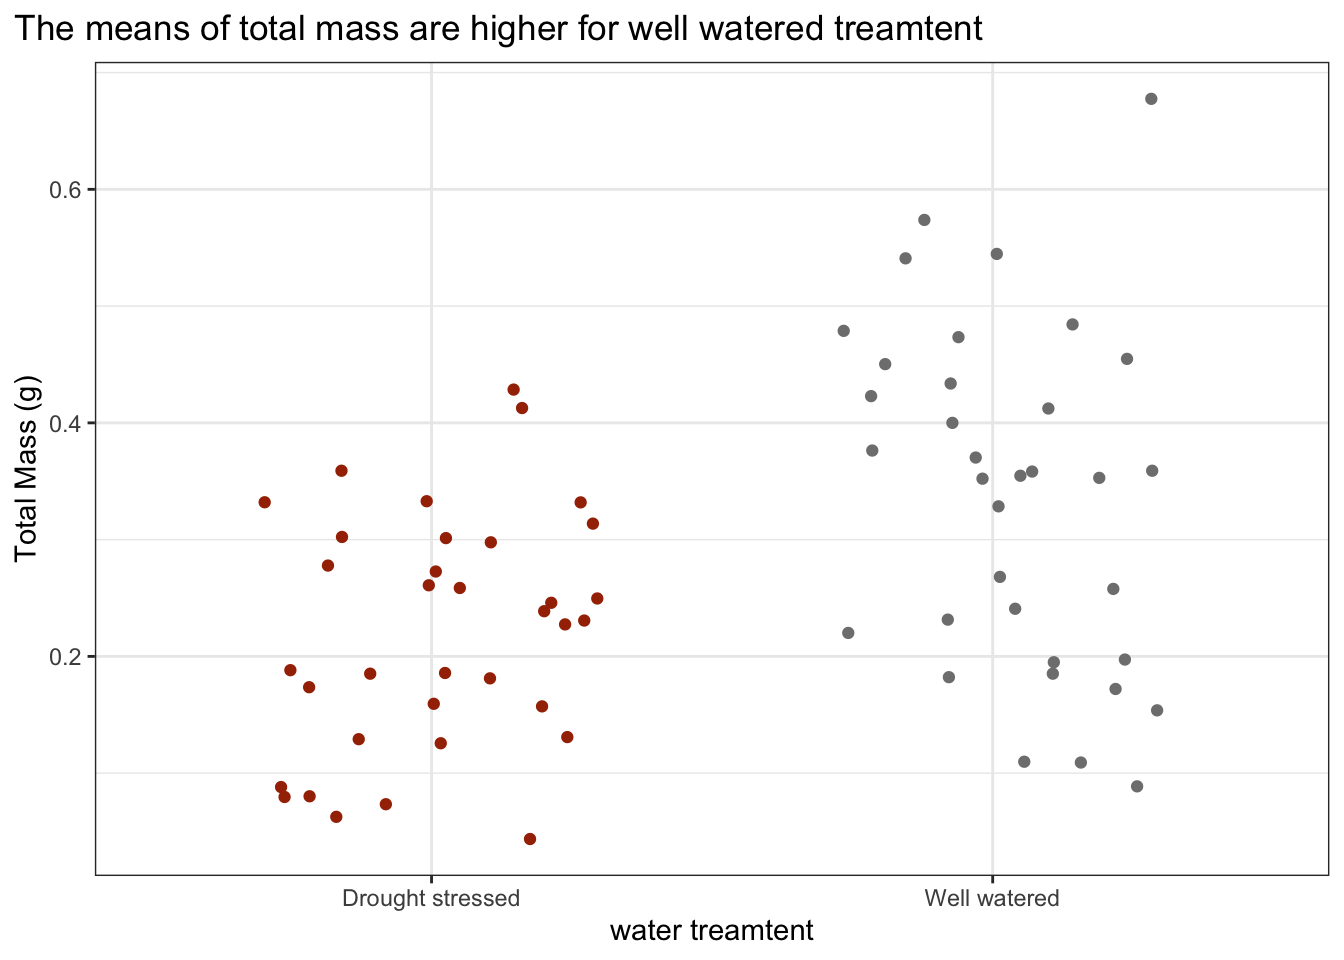
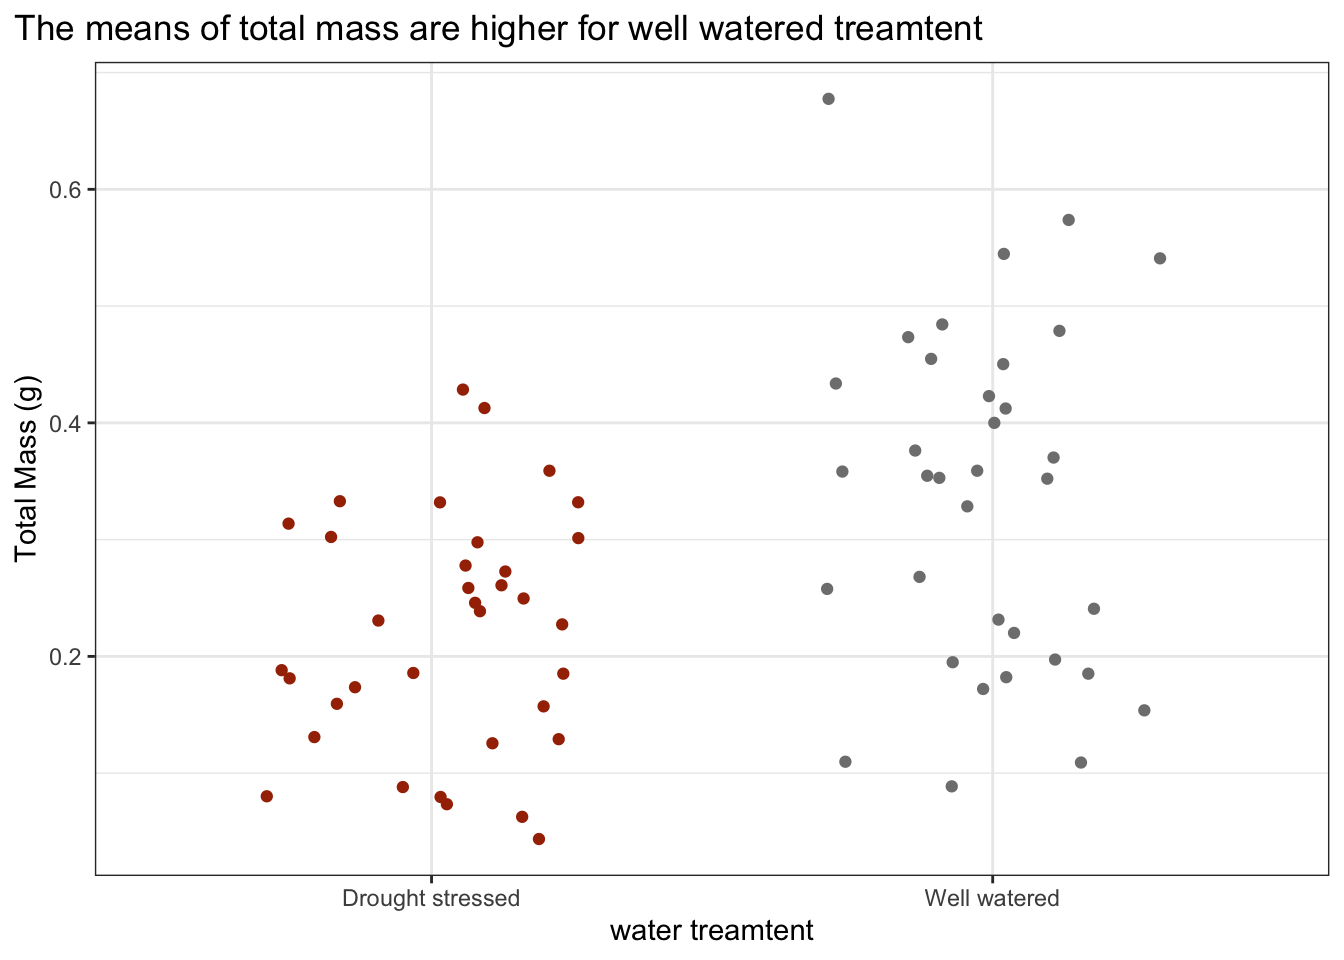
selected best model, looked at summary, and wrote abt outcome

diff --git a/code/workshop-code.html b/code/workshop-code.html
@@ -300,16 +300,16 @@ pre > code.sourceCode > span > a:first-child::before { text-decoration: underlin
 <pre><code># A tibble: 10 × 4
    species_name               water_treatment    sla total_g
    &lt;fct&gt;                      &lt;fct&gt;            &lt;dbl&gt;   &lt;dbl&gt;
- 1 Salvia leucophylla         Drought stressed  74.4  0.131 
- 2 Encelia californica        Drought stressed 192.   0.261 
- 3 Penstemon centranthifolius Well watered     160.   0.172 
- 4 Lotus scoparius            Drought stressed 116.   0.0802
- 5 Penstemon centranthifolius Drought stressed 143.   0.0881
- 6 Stipa pulchra              Well watered     234.   0.545 
- 7 Eschscholzia californica   Drought stressed 107.   0.302 
- 8 Encelia californica        Well watered     209.   0.450 
- 9 Penstemon centranthifolius Well watered     165.   0.197 
-10 Encelia californica        Well watered     222.   0.352 </code></pre>
+ 1 Eschscholzia californica   Drought stressed 130.    0.157
+ 2 Penstemon centranthifolius Well watered     165.    0.197
+ 3 Encelia californica        Well watered     216.    0.359
+ 4 Salvia leucophylla         Drought stressed  77.6   0.186
+ 5 Encelia californica        Drought stressed 196.    0.239
+ 6 Stipa pulchra              Drought stressed 131.    0.301
+ 7 Salvia leucophylla         Drought stressed  99.7   0.227
+ 8 Stipa pulchra              Well watered     161.    0.376
+ 9 Lotus scoparius            Well watered     123.    0.182
+10 Penstemon centranthifolius Drought stressed 161.    0.174</code></pre>
 </div>
 </div>
 </section>
@@ -491,54 +491,142 @@ pre > code.sourceCode > span > a:first-child::before { text-decoration: underlin
 <div class="cell">
 <div class="code-copy-outer-scaffold"><div class="sourceCode cell-code" id="cb11"><pre class="sourceCode r code-with-copy"><code class="sourceCode r"><span id="cb11-1"><a href="#cb11-1" aria-hidden="true" tabindex="-1"></a><span class="co"># model 0: null model</span></span>
 <span id="cb11-2"><a href="#cb11-2" aria-hidden="true" tabindex="-1"></a></span>
-<span id="cb11-3"><a href="#cb11-3" aria-hidden="true" tabindex="-1"></a></span>
-<span id="cb11-4"><a href="#cb11-4" aria-hidden="true" tabindex="-1"></a><span class="co"># model 1: all predictors</span></span>
+<span id="cb11-3"><a href="#cb11-3" aria-hidden="true" tabindex="-1"></a>model0 <span class="ot">&lt;-</span> <span class="fu">lm</span>(total_g <span class="sc">~</span> <span class="dv">1</span>, </span>
+<span id="cb11-4"><a href="#cb11-4" aria-hidden="true" tabindex="-1"></a>             <span class="at">data =</span> drought_exp_clean)</span>
 <span id="cb11-5"><a href="#cb11-5" aria-hidden="true" tabindex="-1"></a></span>
-<span id="cb11-6"><a href="#cb11-6" aria-hidden="true" tabindex="-1"></a></span>
-<span id="cb11-7"><a href="#cb11-7" aria-hidden="true" tabindex="-1"></a><span class="co"># model 2: SLA and water treatment</span></span>
-<span id="cb11-8"><a href="#cb11-8" aria-hidden="true" tabindex="-1"></a></span>
-<span id="cb11-9"><a href="#cb11-9" aria-hidden="true" tabindex="-1"></a></span>
-<span id="cb11-10"><a href="#cb11-10" aria-hidden="true" tabindex="-1"></a><span class="co"># model 3: SLA and species</span></span>
-<span id="cb11-11"><a href="#cb11-11" aria-hidden="true" tabindex="-1"></a></span>
+<span id="cb11-6"><a href="#cb11-6" aria-hidden="true" tabindex="-1"></a><span class="co"># model 1: all predictors</span></span>
+<span id="cb11-7"><a href="#cb11-7" aria-hidden="true" tabindex="-1"></a></span>
+<span id="cb11-8"><a href="#cb11-8" aria-hidden="true" tabindex="-1"></a>model1 <span class="ot">&lt;-</span> <span class="fu">lm</span>(total_g <span class="sc">~</span> sla <span class="sc">+</span> water_treatment <span class="sc">+</span> species_name, </span>
+<span id="cb11-9"><a href="#cb11-9" aria-hidden="true" tabindex="-1"></a>             <span class="at">data =</span> drought_exp_clean)</span>
+<span id="cb11-10"><a href="#cb11-10" aria-hidden="true" tabindex="-1"></a></span>
+<span id="cb11-11"><a href="#cb11-11" aria-hidden="true" tabindex="-1"></a><span class="co"># model 2: SLA and water treatment</span></span>
 <span id="cb11-12"><a href="#cb11-12" aria-hidden="true" tabindex="-1"></a></span>
-<span id="cb11-13"><a href="#cb11-13" aria-hidden="true" tabindex="-1"></a><span class="co"># model 4: water treatment and species</span></span>
-<span id="cb11-14"><a href="#cb11-14" aria-hidden="true" tabindex="-1"></a></span>
+<span id="cb11-13"><a href="#cb11-13" aria-hidden="true" tabindex="-1"></a>model2 <span class="ot">&lt;-</span> <span class="fu">lm</span>(total_g <span class="sc">~</span> sla <span class="sc">+</span> species_name, </span>
+<span id="cb11-14"><a href="#cb11-14" aria-hidden="true" tabindex="-1"></a>             <span class="at">data =</span> drought_exp_clean)</span>
 <span id="cb11-15"><a href="#cb11-15" aria-hidden="true" tabindex="-1"></a></span>
-<span id="cb11-16"><a href="#cb11-16" aria-hidden="true" tabindex="-1"></a><span class="co"># model 5: SLA</span></span>
+<span id="cb11-16"><a href="#cb11-16" aria-hidden="true" tabindex="-1"></a><span class="co"># model 3: SLA and species</span></span>
 <span id="cb11-17"><a href="#cb11-17" aria-hidden="true" tabindex="-1"></a></span>
-<span id="cb11-18"><a href="#cb11-18" aria-hidden="true" tabindex="-1"></a></span>
-<span id="cb11-19"><a href="#cb11-19" aria-hidden="true" tabindex="-1"></a><span class="co"># model 6: water treatment</span></span>
+<span id="cb11-18"><a href="#cb11-18" aria-hidden="true" tabindex="-1"></a>model3 <span class="ot">&lt;-</span> <span class="fu">lm</span>(total_g <span class="sc">~</span> sla <span class="sc">+</span> species_name, </span>
+<span id="cb11-19"><a href="#cb11-19" aria-hidden="true" tabindex="-1"></a>             <span class="at">data =</span> drought_exp_clean)</span>
 <span id="cb11-20"><a href="#cb11-20" aria-hidden="true" tabindex="-1"></a></span>
-<span id="cb11-21"><a href="#cb11-21" aria-hidden="true" tabindex="-1"></a></span>
-<span id="cb11-22"><a href="#cb11-22" aria-hidden="true" tabindex="-1"></a><span class="co"># model 7: species</span></span></code></pre></div><button title="Copy to Clipboard" class="code-copy-button"><i class="bi"></i></button></div>
+<span id="cb11-21"><a href="#cb11-21" aria-hidden="true" tabindex="-1"></a><span class="co"># model 4: water treatment and species</span></span>
+<span id="cb11-22"><a href="#cb11-22" aria-hidden="true" tabindex="-1"></a></span>
+<span id="cb11-23"><a href="#cb11-23" aria-hidden="true" tabindex="-1"></a>model4 <span class="ot">&lt;-</span> <span class="fu">lm</span>(total_g <span class="sc">~</span> water_treatment <span class="sc">+</span> species_name, </span>
+<span id="cb11-24"><a href="#cb11-24" aria-hidden="true" tabindex="-1"></a>             <span class="at">data =</span> drought_exp_clean)</span>
+<span id="cb11-25"><a href="#cb11-25" aria-hidden="true" tabindex="-1"></a></span>
+<span id="cb11-26"><a href="#cb11-26" aria-hidden="true" tabindex="-1"></a><span class="co"># model 5: SLA</span></span>
+<span id="cb11-27"><a href="#cb11-27" aria-hidden="true" tabindex="-1"></a></span>
+<span id="cb11-28"><a href="#cb11-28" aria-hidden="true" tabindex="-1"></a>model5 <span class="ot">&lt;-</span> <span class="fu">lm</span>(total_g <span class="sc">~</span> sla, </span>
+<span id="cb11-29"><a href="#cb11-29" aria-hidden="true" tabindex="-1"></a>             <span class="at">data =</span> drought_exp_clean)</span>
+<span id="cb11-30"><a href="#cb11-30" aria-hidden="true" tabindex="-1"></a></span>
+<span id="cb11-31"><a href="#cb11-31" aria-hidden="true" tabindex="-1"></a><span class="co"># model 6: water treatment</span></span>
+<span id="cb11-32"><a href="#cb11-32" aria-hidden="true" tabindex="-1"></a></span>
+<span id="cb11-33"><a href="#cb11-33" aria-hidden="true" tabindex="-1"></a>model6 <span class="ot">&lt;-</span> <span class="fu">lm</span>(total_g <span class="sc">~</span> water_treatment, <span class="co">#response ~ predictor + predictor</span></span>
+<span id="cb11-34"><a href="#cb11-34" aria-hidden="true" tabindex="-1"></a>             <span class="at">data =</span> drought_exp_clean)</span>
+<span id="cb11-35"><a href="#cb11-35" aria-hidden="true" tabindex="-1"></a></span>
+<span id="cb11-36"><a href="#cb11-36" aria-hidden="true" tabindex="-1"></a><span class="co"># model 7: species</span></span>
+<span id="cb11-37"><a href="#cb11-37" aria-hidden="true" tabindex="-1"></a><span class="co"># </span></span>
+<span id="cb11-38"><a href="#cb11-38" aria-hidden="true" tabindex="-1"></a>model7 <span class="ot">&lt;-</span> <span class="fu">lm</span>(total_g <span class="sc">~</span> species_name, </span>
+<span id="cb11-39"><a href="#cb11-39" aria-hidden="true" tabindex="-1"></a>             <span class="at">data =</span> drought_exp_clean)</span></code></pre></div><button title="Copy to Clipboard" class="code-copy-button"><i class="bi"></i></button></div>
 </div>
 </section>
 <section id="model-selection" class="level2">
 <h2 class="anchored" data-anchor-id="model-selection">Model selection</h2>
 <p>Insert code to use the <code>AICc()</code> function to calculate the AIC for each model.</p>
 <p>Arrange by decreasing AIC.</p>
+<div class="cell">
+<div class="code-copy-outer-scaffold"><div class="sourceCode cell-code" id="cb12"><pre class="sourceCode r code-with-copy"><code class="sourceCode r"><span id="cb12-1"><a href="#cb12-1" aria-hidden="true" tabindex="-1"></a><span class="fu">AICc</span>(</span>
+<span id="cb12-2"><a href="#cb12-2" aria-hidden="true" tabindex="-1"></a>  model0, </span>
+<span id="cb12-3"><a href="#cb12-3" aria-hidden="true" tabindex="-1"></a>  model1, </span>
+<span id="cb12-4"><a href="#cb12-4" aria-hidden="true" tabindex="-1"></a>  model2, </span>
+<span id="cb12-5"><a href="#cb12-5" aria-hidden="true" tabindex="-1"></a>  model3, </span>
+<span id="cb12-6"><a href="#cb12-6" aria-hidden="true" tabindex="-1"></a>  model4, </span>
+<span id="cb12-7"><a href="#cb12-7" aria-hidden="true" tabindex="-1"></a>  model5, </span>
+<span id="cb12-8"><a href="#cb12-8" aria-hidden="true" tabindex="-1"></a>  model6, </span>
+<span id="cb12-9"><a href="#cb12-9" aria-hidden="true" tabindex="-1"></a>  model7</span>
+<span id="cb12-10"><a href="#cb12-10" aria-hidden="true" tabindex="-1"></a>) <span class="sc">|&gt;</span> </span>
+<span id="cb12-11"><a href="#cb12-11" aria-hidden="true" tabindex="-1"></a>  <span class="fu">arrange</span>(AICc)</span></code></pre></div><button title="Copy to Clipboard" class="code-copy-button"><i class="bi"></i></button></div>
+<div class="cell-output cell-output-stdout">
+<pre><code>       df       AICc
+model4  9 -156.19595
+model1 10 -153.75361
+model2  9 -124.07569
+model3  9 -124.07569
+model7  8 -120.30191
+model5  3  -88.85180
+model6  3  -86.76661
+model0  2  -74.98036</code></pre>
+</div>
+</div>
+<p>Arrange by decreasing AIC. best model is model4: the one that includes only water treatment and species</p>
 </section>
 <section id="model-diagnostics" class="level2">
 <h2 class="anchored" data-anchor-id="model-diagnostics">Model diagnostics</h2>
 <p>Insert code to look at the diagnostic plots for the best model.</p>
+<div class="cell">
+<div class="code-copy-outer-scaffold"><div class="sourceCode cell-code" id="cb14"><pre class="sourceCode r code-with-copy"><code class="sourceCode r"><span id="cb14-1"><a href="#cb14-1" aria-hidden="true" tabindex="-1"></a><span class="fu">par</span>(<span class="at">mfrow =</span> <span class="fu">c</span>(<span class="dv">2</span>,<span class="dv">2</span>)) <span class="co">#display plots in 2x2 grid</span></span>
+<span id="cb14-2"><a href="#cb14-2" aria-hidden="true" tabindex="-1"></a><span class="fu">plot</span>(model4) <span class="co">#plot model4 diagnostics</span></span></code></pre></div><button title="Copy to Clipboard" class="code-copy-button"><i class="bi"></i></button></div>
+<div class="cell-output-display">
+<div>
+<figure class="figure">
+<p><img src="workshop-code_files/figure-html/unnamed-chunk-6-1.png" class="img-fluid figure-img" width="672"></p>
+</figure>
+</div>
+</div>
+</div>
+<p>diagnostic plots look good. residals(standing in for errors) loook nromally distributed based on qq plot. residuals look homoscedastic (have const variace) based on residuals vs fitted plot and scale loc plot. no outliers influencing model est of coefficients</p>
 </section>
 <section id="summary" class="level2">
 <h2 class="anchored" data-anchor-id="summary">Summary</h2>
 <p>Insert code to display the summary for the best model.</p>
+<div class="cell">
+<div class="code-copy-outer-scaffold"><div class="sourceCode cell-code" id="cb15"><pre class="sourceCode r code-with-copy"><code class="sourceCode r"><span id="cb15-1"><a href="#cb15-1" aria-hidden="true" tabindex="-1"></a><span class="fu">summary</span>(model4)</span></code></pre></div><button title="Copy to Clipboard" class="code-copy-button"><i class="bi"></i></button></div>
+<div class="cell-output cell-output-stdout">
+<pre><code>
+Call:
+lm(formula = total_g ~ water_treatment + species_name, data = drought_exp_clean)
+
+Residuals:
+      Min        1Q    Median        3Q       Max 
+-0.157087 -0.046953 -0.003733  0.041244  0.192657 
+
+Coefficients:
+                                       Estimate Std. Error t value Pr(&gt;|t|)    
+(Intercept)                             0.05455    0.02451   2.225  0.02973 *  
+water_treatmentWell watered             0.11695    0.01733   6.746 5.90e-09 ***
+species_namePenstemon centranthifolius  0.05003    0.03243   1.543  0.12799    
+species_nameSalvia leucophylla          0.12020    0.03243   3.706  0.00045 ***
+species_nameEncelia californica         0.21774    0.03243   6.714 6.70e-09 ***
+species_nameStipa pulchra               0.22881    0.03243   7.055 1.72e-09 ***
+species_nameEschscholzia californica    0.23164    0.03243   7.143 1.22e-09 ***
+species_nameGrindelia camporum          0.31335    0.03243   9.662 5.53e-14 ***
+---
+Signif. codes:  0 '***' 0.001 '**' 0.01 '*' 0.05 '.' 0.1 ' ' 1
+
+Residual standard error: 0.07252 on 62 degrees of freedom
+Multiple R-squared:  0.7535,    Adjusted R-squared:  0.7257 
+F-statistic: 27.08 on 7 and 62 DF,  p-value: &lt; 2.2e-16</code></pre>
+</div>
+</div>
 <p><strong>What are the reference levels?</strong></p>
-<p><strong>What does the <code>(Intercept)</code> represent?</strong></p>
+<p>drought treatment and lotus scoparius because they are not listed in the summary output.</p>
+<p><strong>What does the <code>(Intercept)</code> represent?</strong><br>
+est mass for drought stressed lotus scoparius 0.055 g plus minus 0.02</p>
 <p><strong>What does <code>water_treatmentWell watered</code> represent?</strong></p>
+<p>this is the model prediction for the diff in lotus scoparius mass btwn well watered and drought stressed treatments. the model preducts the diff is 0.12 +/- 0.02 (SE) g</p>
 <p><strong>What does <code>species_namePenstemon centranthifolius</code> represent?</strong></p>
+<p>this is the model prediction for the diff between penstemon centranthifolius mass in the well watered treatment and lotus scoparius mass in well watered treatment. the model predicts that this difference is 0.05 +/- 0.03 (SE) g</p>
 <p><strong>What does <code>species_nameEschscholzia californica</code> represent?</strong></p>
+<p>this is the model prediction for the diff between Eschscholzia californica mass in the well watered treatment and lotus scoparius mass in well watered treatment. the model predicts that this difference is 0.23 +/- 0.03 (SE) g</p>
 </section>
 <section id="stop-and-think-what-does-this-model-mean" class="level2">
 <h2 class="anchored" data-anchor-id="stop-and-think-what-does-this-model-mean">Stop and think: what does this model mean?</h2>
 <p><strong>What is the best model?</strong></p>
-<p>[insert your response here]</p>
+<p>the best model includes water treatment and species as predictors</p>
 <p><strong>How much variation in the response (total mass, in grams) does this model explain?</strong></p>
-<p>[insert your response here]</p>
+<p>this model explains 72% of the variation in plant mass.</p>
 <p><strong>How do we interpret the effects of the predictors on the response variable (again, total mass in grams)?</strong></p>
-<p>[insert your response here]</p>
+<p>water treatment and species influences plant mass</p>
 </section>
 </section>
 <section id="model-predictions" class="level1">
